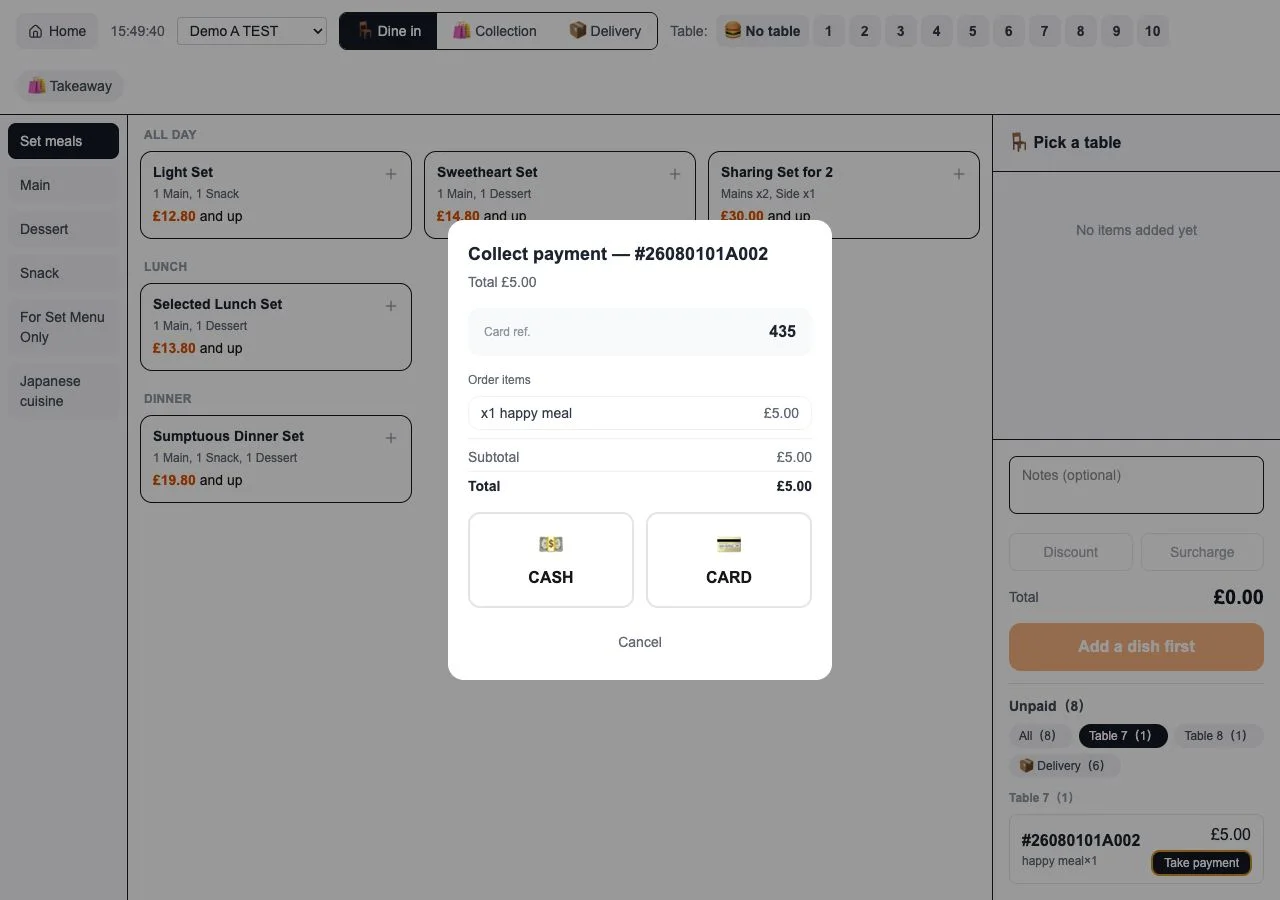
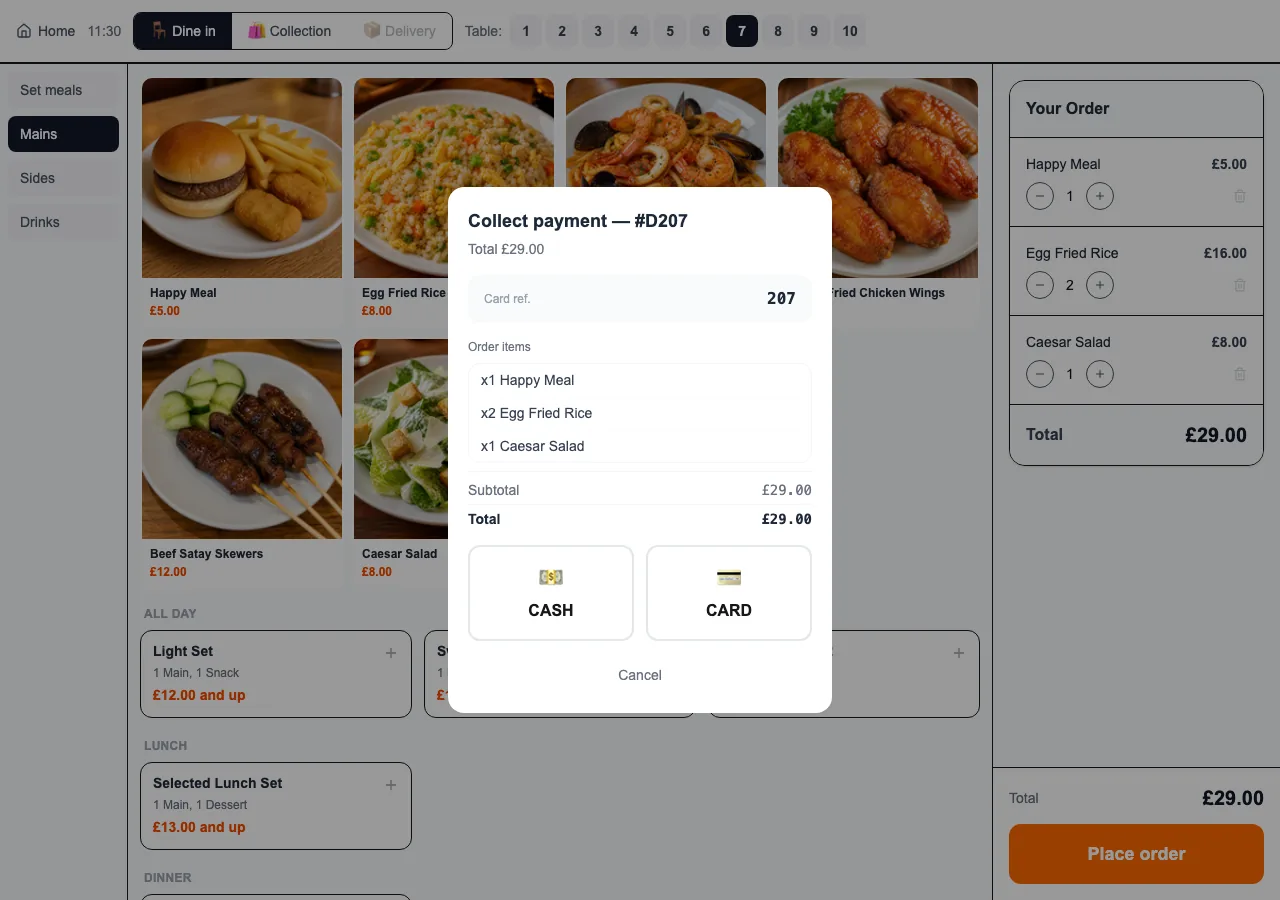
feat(landing): ship the regenerated workflow screenshots
The four "order to checkout" images are now produced by the POS screenshot
harness instead of being captured by hand from a live Demo restaurant, so the
three findings against them are fixed at the source rather than for one round:
no paid add-on control appears inside what the page presents as Core POS,
neither board is half empty, and no absolute date is burnt in.

- kitchen-order and floor-progress lose their 1045×735 exception. That size
  existed because those two were hand-shot and then cropped to hide a sidebar;
  the harness renders at a fixed viewport, so all eighteen are 1280×900.
- order-entry's contract changes. It used to be compared pixel by pixel against
  a retained pre-composite baseline, with only six rounded tiles allowed to
  differ — a guard built around a manual paste-the-photos-in step. That step no
  longer exists, and the baseline it needed is an artefact the harness never
  produces, so keeping the guard would mean rendering a second photo-less
  version purely to satisfy a test. The contract is now that the six tiles hold
  six distinct, genuinely photographic images; the stale baseline is deleted
  rather than left to look current. This is a real loosening and is written
  down as one: swapping order-entry.webp outside the harness no longer turns a
  test red, and the register's SHA plus its human review carry that weight now.
- The six food photographs are unchanged pixels, reused by the harness fixture
[…]

diff --git a/docs/superpowers/plans/2026-08-12-workflow-screenshots-reshoot-plan.md b/docs/superpowers/plans/2026-08-12-workflow-screenshots-reshoot-plan.md
@@ -1,0 +1,228 @@
+# 四張 workflow 截圖重新產生 —— 雙軌方案（2026-08-12）
+
+接住 [2026-08-12-pos-features-remaining-handoff.md](./2026-08-12-pos-features-remaining-handoff.md) 嘅 **A 線**（finding #1 F9／#2 F15／#3 F16）。
+B 線（`PosWorkflow` 收返入 image map）已完成，commit `b114003`。
+
+Claude 同 Codex 各自獨立寫一份（互相冇睇過對方），本檔由 Claude 組合。
+**未拍板，未開工。**
+
+---
+
+## 0. 事實基礎（兩份一致，Claude 已逐條核實）
+
+Landing 用嘅 18 張 demo 截圖分兩批來源：
+
+- **14 張** core／add-on 圖：POS repo `tools/screenshot-harness/` 自動產生（固定 fixture、唔連 Supabase、固定時鐘、Playwright 影 1280×900）
+- **4 張** workflow 圖（`order-entry`／`kitchen-order`／`floor-progress`／`checkout-report`）：**唔喺 harness 入面**，2026-08-01 人手喺真 Supabase 嘅 `Demo A TEST` 餐廳影
+
+呢四張就係 A 線要處理嗰四張。
+
+### 0.1 🔴 決定性發現（Codex 揪出，推翻 Claude 原方案前提）
+
+**「喺 Demo 餐廳熄加購模組」修唔到 F9。** 已核實：
+
+| 控制項 | 有冇 entitlement gate | 證據 |
+|---|---|---|
+| Staff 落單頁 `Delivery` 掣 | ❌ **固定 render**，只係 `!deliverySettings?.is_active` 令佢 disabled | [app/staff/page.tsx:676-682](/Users/hong/Claude/SHOPOPS/POS/app/staff/page.tsx#L676-L682)；全檔零個 `useHasModule` |
+| Kitchen `All／Dine-in／Takeaway／Delivery` filter | ❌ **固定 render**，hardcode array | [app/admin/page.tsx:461](/Users/hong/Claude/SHOPOPS/POS/app/admin/page.tsx#L461) |
+| Kitchen `Recipes` 掣 | ✅ `useHasModule('recipes')` | [app/admin/page.tsx:36](/Users/hong/Claude/SHOPOPS/POS/app/admin/page.tsx#L36)、[:477](/Users/hong/Claude/SHOPOPS/POS/app/admin/page.tsx#L477) |
+
+即係話：人手路熄模組**只可靠地移走 Recipes**，Delivery tab 照樣喺度。要修淨低嗰半，只剩「裁走／遮走」或者「改 production entitlement 行為」。
+
+### 0.2 🔴 第二個發現（Claude 原本講漏、Codex 講得更盡）
+
+**固定時鐘唔會令 F16 自動消失。** harness 而家釘死 `FIXED_TIME = '2026-08-06T10:30:00.000Z'`（[capture.mjs:17](/Users/hong/Claude/SHOPOPS/POS/tools/screenshot-harness/scripts/capture.mjs#L17)），照搬入 harness 只會由 `2026/08/01` 變 `2026/08/06`，一年後一樣舊。
+
+真正結構性修法：**scene 唔顯示絕對日期**（顯示 `Today`／相對時間），再加一條測試禁止 `20xx/xx/xx` 同 ISO 日期出現。
+
+### 0.3 🆕 Claude 核實時新發現（兩份都冇講）
+
+如果 scene 直接**唔 render** Delivery 掣，張 marketing 圖就會展示一個**真實客人見唔到嘅畫面**——因為按 0.1，一個 Core-only 客人**仍然會見到一個灰色 disabled 嘅 Delivery 掣**。
+
+咁樣 F9 由「過度銷售（展示咗收費功能）」變成「展示假 UI」，係另一種同樣唔想要嘅失實。**呢個要拍板**，見下面 D2。
+
+---
+
+## 1. 三條路
+
+### 路 A：再人手影一次（Claude 提出，Codex 詳述風險）
+
+去 `Demo A TEST` 熄模組、落 4–6 張虛構單、逐格影、裁圖。
+
+- **F9**：⚠ 只修到 Recipes（見 0.1），Delivery 要後製／裁走
+- **F15**：✅ 靠多落單填滿 —— 但下次 Demo 狀態唔同，會翻兜
+- **F16**：❌ 修唔到根，影嗰日就係嗰個日期
+- **風險**：真 Supabase 寫入（落單／改狀態／收款）；熄模組即時影響其他人用緊嘅 Demo 餐廳；realtime 令畫面截圖期間跳動；清理易漏；收款 modal 真確認會寫 `paid_at`
+- **下次成本**：每次 2–4 個鐘（撞到 Delivery tab 隱藏唔到／狀態撞單可升至半日）
+
+### 路 B：將四個完整 production page 搬入 harness（Claude 提出，兩邊都唔建議）
+
+逐頁依賴（Claude 量度 + Codex 逐條列）：
+
+| Scene | 頁面 | 規模 | 主要依賴 |
+|---|---|---|---|
+| `order-entry` | [app/staff/page.tsx](/Users/hong/Claude/SHOPOPS/POS/app/staff/page.tsx) | **1147 行、57 個 hook** | 8 條 `/api/*`、Supabase 6 張表（含 nested）、menu realtime、離線 menu cache、**IndexedDB 落單佇列／帳簿**、客顯 broadcast、CTI popup、held-payment recovery |
+| `checkout-report` | 同上 + 收款 modal | 繼承上面全部 | 再加預載 ledger／打開 `UnpaidList`／觸發 `OfflineCheckoutModal` |
+| `kitchen-order` | [app/admin/page.tsx](/Users/hong/Claude/SHOPOPS/POS/app/admin/page.tsx) | 610 行 | `orders` 七組 query（`eq/gte/lte/lt/not/is/in`）、nested `order_items`、`.channel().on().subscribe()`、`sessionStorage`、`localStorage`、10 秒輪詢 |
+| `floor-progress` | [app/admin/tables/page.tsx](/Users/hong/Claude/SHOPOPS/POS/app/admin/tables/page.tsx) | 917 行 | 多組 orders query、realtime、輪詢、打印狀態 channel、`/api/print-jobs/[id]`、courier verify |
+
+而 harness 個假 Supabase client 得 **74 行**，只撐 `select/order/eq/maybeSingle/single`，未知 table 直接 throw（[fixtures/supabase-client.ts:25](/Users/hong/Claude/SHOPOPS/POS/tools/screenshot-harness/fixtures/supabase-client.ts#L25)），亦**冇 `.channel()`**（一叫即 throw）。
+
+- **核心問題**（Codex 講得好準）：query stub 會愈加愈似自己寫一個半套 Supabase emulator。Production 一加 `.or()`／`.range()`／新 nested join，scene 就斷
+- **下次成本**：重跑 30–60 分鐘，但**日常 upkeep 貴**
+
+### 路 C：Harness presentation scenes（🏆 Codex 提出並建議）
+
+唔載入完整 production page，**用真 component 直接餵固定 props**，scene 負責砌成一個真實 workflow 畫面。呢個就係 harness 現有 14 個 scene 已經用緊嘅 pattern（例：`BilingualScene` 直接用真 `OrderCard` 加 fixture）。
+
+| Scene | 重用嘅真 component | 新增 | 工時（Codex 估） |
+|---|---|---|---|
+| `order-entry` | `OrderingLayout`／`MenuItemGrid`／`Cart` | `OrderEntryScene.tsx` + `fixtures/workflow.ts`；scene 自己出 Core-only header | 1–1.5 日 |
+| `checkout-report` | 真 `OfflineCheckoutModal` | 共用上面 fixture；建一個冇 `server_order_id` 嘅 ledger entry → 直接行 local fallback，唔掂 API | 半日 |
+| `kitchen-order` | 真 `OrderCard` | `KitchenOrderScene.tsx`；3 pending + 2 preparing；**唔傳 `onShowRecipe` → recipe icon 自動唔出**（[OrderCard.tsx:212](/Users/hong/Claude/SHOPOPS/POS/components/admin/OrderCard.tsx#L212)，已核實）；日期位顯示 `Today` | 半日–1 日 |
+| `floor-progress` | 要先抽 `TableProgressCard` | markup 而家 inline 喺 917 行 page 入面（[:775](/Users/hong/Claude/SHOPOPS/POS/app/admin/tables/page.tsx#L775)、[:517](/Users/hong/Claude/SHOPOPS/POS/app/admin/tables/page.tsx#L517)、[:599](/Users/hong/Claude/SHOPOPS/POS/app/admin/tables/page.tsx#L599)）→ **要動 production code** | 1–1.5 日 |
+
+**共用要改**：`fixtures/workflow.ts`（新）、四個 scene（新）、`components/SceneRenderer.tsx`、`scenes/manifest.mjs`（新增 `workflow` group，輸出 `workflow/*.webp`）、`scripts/capture.mjs`、`tests/manifest.test.mjs`、`tests/artifacts.test.mjs`、`tests/workflow-scenes.test.mjs`（新）、harness `docs/screenshot-register.md`、`components/admin/TableProgressCard.tsx`（新，production）、`app/admin/tables/page.tsx`（改用抽出嘅 component）、POS production regression test。
+
+**Codex 點名嘅五個撞板位**：
+1. `TableProgressCard` extraction **只准搬 markup／props／callbacks**，唔准順手重構行為
+2. Staff header 而家唔係獨立 component，scene 手砌會有 drift 風險 → scene test 要核對必要 label
+3. Checkout modal 初 render 會由 loading 轉 offline fallback → ready selector 要等 `CASH`／`CARD` 出現先截圖
+4. 現有 capture 用自訂 `Date` override，長遠建議轉 Playwright 官方 `page.clock.setFixedTime()`
+5. `FixtureProviders` 而家對**所有** scene 開齊全部模組（[FixtureProviders.tsx:8](/Users/hong/Claude/SHOPOPS/POS/tools/screenshot-harness/components/FixtureProviders.tsx#L8) `FIXTURE_MODULES = [...MODULE_KEYS]`，已核實）→ **唔可以全域改走**，否則整壞 14 張 add-on scene；workflow scene 要有自己嘅 Core-only provider
+
+**下次成本**：15–30 分鐘（跑 capture → 自動驗 → 人眼 gate → copy 入 Landing → 更新 register → 跑 verify）
+
+---
+
+## 2. 兩份方案嘅一致位同分歧位
+
+### ✅ 一致
+
+1. 純人手路（路 A）唔應該再揀
+2. 完整 fixture 化四個 production page（路 B）成本／風險唔成正比
+3. F15 應該**加數據唔好裁圖**，四張統一 1280×900（Codex 額外指出：Landing 而家 kitchen／floor 係 1045×735 特例，[pos-demo-assets.test.mjs:44-47](/Users/hong/Claude/SHOPOPS/Landing/tests/pos-demo-assets.test.mjs#L44-L47)，統一返會簡化 layout）
+4. 呢個決定**唔算難回頭**（四張 WebP 隨時換得；harness 係 local-only；冇 DB schema／對外 API 鎖死）
+5. 守則 #11 嘅判斷：唔應該用「長遠」去支持路 B；但「唔好揀之後不停返工嘅易路」對路 A **fire**
+6. Landing 側收尾兩條路都要做（見第 4 節）
+
+### ⚔ 分歧
+
+| | Claude | Codex | 拍板後果 |
+|---|---|---|---|
+| **建議** | 混合路：`kitchen-order` + `floor-progress` 搬入 harness，`order-entry` + `checkout-report` 維持人手 | 路 C：四張一次過搬，用 presentation scene | Claude 版少做約一半，但保留兩套 provenance |
+| **F9 修得到未** | 假設「熄模組」搞掂 → **已證實錯**（0.1） | 由 scene 控制 render 咩 → 修到 | Codex 勝 |
+| **`floor-progress` 最抵搬？** | 排第二抵（有日期 + 有空白） | 排**最貴**（UI inline 喺 917 行 page，要先抽 production component） | Codex 講得對，Claude 冇睇到 markup 係 inline |
+| **分唔分期** | 分（2 搬 2 留） | 唔建議分（四張今次都要重影，分期反而同時維持兩套 provenance）；但如果要分，次序係 kitchen-order → checkout-report → order-entry → floor-progress | 見 D1 |
+
+**Claude 認低嘅位**：我原本嘅混合路建基於兩個錯判——(a) 以為熄模組修到 F9；(b) 以為 `floor-progress` 易搬。兩個都經核實推翻。Codex 嗰份喺呢兩點上準過我。
+
+---
+
+## 3. HONG 已拍板（2026-08-12）
+
+| | 決定 | 影響 |
+|---|---|---|
+| **D1** | **路 C，四張全做** | 唔分期。約 3.5–4.5 日，工作主要喺 POS repo |
+| **D2** | **a：scene render 灰色 disabled 嘅 Delivery** | 同 Core-only 真客人所見一致；唔改 production entitlement 行為；`Recipes` 就真係唔出（唔傳 `onShowRecipe`） |
+| **D3** | 加數據，唔裁圖，四張統一 1280×900 | Landing `expectedDimensions` 要拆走 kitchen／floor 嘅 1045×735 特例 |
+| **D5** | **收貨**：准為 `floor-progress` 抽 `TableProgressCard` | 只准搬 markup／props／callbacks，唔准順手重構行為，要有 production regression test |
+| **E1** | **a：四張維持全螢幕真 app 外觀** | Workflow scene **唔用**現有 marketing `FixtureShell`（橙色 eyebrow／大標題／`Fictional demo data` badge）；要喺 scene 砌返 app chrome，並用 scene test 釘住必要 label 防 drift |
+| **E2** | **c：兩道新閘（下半空白上限、唔准絕對日期）寫成全 18 張適用，現有違規者列白名單** | 唔擴大今次 scope；白名單本身就係一張可見嘅舊債清單，之後另開一案清 |
+| **D4** | ⏳ **未拍板** | 見下面。只阻住 `order-entry`，唔阻住頭兩個 scene |
+
+### ⏳ D4 —— `order-entry` 嘅逐 pixel baseline 測試點算
+
+Landing 現有測試只准 6 個食物相圓角格嘅 pixel 同 baseline 唔同，其餘每一粒都要一樣
+（[pos-demo-assets.test.mjs:184](/Users/hong/Claude/SHOPOPS/Landing/tests/pos-demo-assets.test.mjs#L184)）。重影之後必定失效。
+
+- **D4-a**：保留現流程，更新 `tests/fixtures/pos-demo-order-entry-baseline.webp` 同 tile 座標
+- **D4-b**：harness fixture 直接用已批准嘅 6 張食物相，測試改成「6 格存在／非空／各自 hash 唔同／零第三方 request」
+
+⚠ D4-b 等於放寬現有保護契約，Codex 自己都話實作前要獨立 review。
+
+---
+
+## 3b. 原始拍板選項（保留備查）
+
+### D1 — 揀邊條路？
+
+- **C（Codex 建議）**：四張一次過用 presentation scene 搬入 harness。約 3.5–4.5 日
+- **C 分期（Codex 次選）**：先 `kitchen-order` + `checkout-report`（約 1–1.5 日，收益最大），其餘之後做
+- **A（唔建議）**：人手再影，但 F9 修唔全、F16 修唔到根
+
+### D2 — 🔴 F9 到底點修？（0.3 帶出，兩份原方案都冇答）
+
+一個 Core-only 客人**真係會見到**灰色 Delivery 掣。所以：
+
+- **D2-a**：scene render **灰色 disabled** 嘅 Delivery／Takeaway → 誠實（同真客人所見一致），而且灰色本身已經唔似「已包含嘅功能」
+- **D2-b**：scene **完全唔 render** Delivery → 畫面最乾淨，但展示緊冇人見過嘅 UI
+- **D2-c**：改 POS production，令呢啲控制真係受 entitlement gate 管 → 最徹底，但係**產品決定**，影響真客人，唔應該由 marketing 截圖推動
+
+Claude 傾向 **D2-a**。
+
+### D3 — F15 加數據定裁圖？
+
+兩份一致建議**加數據 + 統一 1280×900**。如果冇異議可以直接照做，唔使特別拍板。
+
+### D4 — `order-entry` 嘅 pixel baseline 點算？
+
+Landing 有一條好辣嘅測試：只准 6 個食物相圓角格嘅 pixel 唔同，其餘每一粒都要同 baseline 一樣（[pos-demo-assets.test.mjs:184](/Users/hong/Claude/SHOPOPS/Landing/tests/pos-demo-assets.test.mjs#L184)，已核實）。重影之後一定失效。
+
+- **D4-a**：保留現流程，更新 `tests/fixtures/pos-demo-order-entry-baseline.webp` 同 tile 座標
+- **D4-b**（Codex 較推薦）：harness fixture 本身直接用已批准嘅 6 張食物相，Landing 測試改成「6 格存在／非空／各自 hash 唔同／零第三方 request」，ownership 交返人眼 licence gate
+
+⚠ Codex 自己都標明 D4-b **等於放寬現有保護契約，實作前要獨立 review，唔可以靜靜鬆**。
+
+### D5 — 為咗截圖去抽 production component（`TableProgressCard`）你收唔收貨？
+
+路 C 嘅 `floor-progress` 要動 [app/admin/tables/page.tsx](/Users/hong/Claude/SHOPOPS/POS/app/admin/tables/page.tsx) 抽一個純展示 component 出嚟。係可回退嘅 presentation refactor，但佢係**由 marketing 需求驅動嘅 production 改動**。唔收貨嘅話，`floor-progress` 就要留返人手，或者 scene 自己複製一份會 drift 嘅假 markup（唔建議）。
+
+---
+
+## 3c. 開工後量度到嘅新事實（2026-08-12，Claude）
+
+量度全部 18 張「下半 45% 近白像素」比例（同 handoff 同一方法），發現 **F15 同 F16 都唔限於嗰四張人手圖**：
+
+| 資產 | 下半近白 | 備註 |
+|---|---:|---|
+| `core/bilingual` | 99% | 已上線；**肉眼核實真係空一半** |
+| `add-ons/scheduling` | 99% | 已上線；**肉眼核實空一半，兼且顯示絕對日期 `08-03`…`08-16`（＝F16）** |
+| `add-ons/food_safety`／`add-ons/custom_domain` | 99% | |
+| `floor-progress` | 98% | F15 flag 咗 |
+| `add-ons/reservations` | 98% | |
+| `kitchen-order` | 97% | F15 flag 咗 |
+| `add-ons/reviews`／`add-ons/delivery` | 95% | |
+| `order-entry` | 84% | ⚠ 但肉眼睇係滿嘅 —— 見下面警告 |
+| `checkout-report` | 13% | |
+| `core/offline_backup` | 6% | |
+
+⚠ **呢個數字係 proxy 唔係真相**：白底 UI 都會計入「近白」，所以 `order-entry` 84% 但實際好滿。
+單靠數字唔可以判違規，一定要配肉眼。定閘門檻嗰陣要記住呢點。
+
+**結論**：F15 係 harness 個框（固定 `min-h-[836px]` 卡 + 內容唔夠高）造成，唔係人手影圖獨有；
+F16 亦已經出現喺 harness 產物。所以兩道閘擺喺 harness 層先啱（＝E2-c）。
+
+---
+
+## 4. Landing 側收尾（揀邊條路都要做，7 項）
+
+1. 換四個 `public/pos-demo/*.webp`
+2. 更新 [docs/pos-demo-screenshot-register.md](/Users/hong/Claude/SHOPOPS/Landing/docs/pos-demo-screenshot-register.md)：capture 日期／provenance／fixture 狀態／dimensions／bytes／SHA-256／network request／F9-F15-F16 審核結果／**商標同 licence 兩欄人手重新 tick**
+3. 更新 [tests/pos-demo-assets.test.mjs](/Users/hong/Claude/SHOPOPS/Landing/tests/pos-demo-assets.test.mjs)：kitchen／floor 改 1280×900；新增 workflow 內容閘（唔准出 `Recipes`／`Delivery` 字樣、最低 card 數、唔准有絕對日期 pattern、下半近白像素上限）
+4. 處理 `order-entry` baseline（見 D4）
+5. 真 render 驗三個使用位置：首頁、`/pos`、`/pos/features`
+6. 跑 Landing `npm run verify`
+7. 原尺寸逐張人眼 gate：英文／無 PII／無真商業資料／無第三方商標／食物相 licence／文字可讀／F9-F15-F16 清零
+
+---
+
+## 對帳
+
+來源：Codex 方案 13 個 block + Claude 方案 6 個 block + Claude 核實新增 2 條 = **21 條入**。
+
+本檔覆蓋：C1→§0.1、C2→§0.2、C3→§1 路 A、C4→§1 路 B、C5→§1 路 C 表、C6→§1 路 C 共用要改、C7→§1 五個撞板位、C8→§2 分歧表 + D1、C9→§2 一致位 3 + D3、C10→D4、C11→§4、C12→§2 一致位 4-5、C13→§2 分歧表；
+K1→§0、K2→§2 分歧表（已被推翻）、K3→§1 各路 findings、K4→§1 路 B 表、K5→§2 分歧表、K6→§0.2 + §2 一致位 5；
+N1→§0.1/§0.2 證據欄、N2→§0.3 + D2。
+
+**21 入 = 21 出，零 gap。**

diff --git a/docs/pos-demo-screenshot-register.md b/docs/pos-demo-screenshot-register.md
@@ -1,8 +1,17 @@
 # ShopOps POS Website Screenshot Register — 2026-08-06
 
 - Scope: 18 English demo-interface WebP assets used by the POS feature page.
-- Existing workflow assets: manually re-opened at original size on 2026-08-06 (BST); English demo UI, no visible PII or commercial data, and readable at source size.
-- `order-entry.webp` now uses six original generated food photographs for Happy Meal, Egg Fried Rice, Seafood Spaghetti, Crispy Fried Chicken Wings, Beef Satay Skewers and Caesar Salad; the surrounding product UI remains unchanged.
+- **Workflow assets (2026-08-13, regenerated):** the four `order-entry` / `kitchen-order` / `floor-progress` /
+  `checkout-report` assets are no longer hand-captured from a live Demo restaurant. They now come from the POS
+  screenshot harness (`tools/screenshot-harness`, `workflow` scene group) with fixed fictional fixtures, a fixed
+  clock and no Supabase connection, so they can be regenerated with one command. The harness renders the real POS
+  components; only Core POS (`ordering`) is enabled, which is why no paid add-on entry point appears.
+  ⚠ **Their three review columns below read `PENDING`: the assets changed and the manual review has not been
+  redone yet.** `tests/pos-demo-assets.test.mjs` fails until a reviewer opens all four at original size and ticks them.
+- `order-entry.webp` shows the same six original generated food photographs (Happy Meal, Egg Fried Rice, Seafood
+  Spaghetti, Crispy Fried Chicken Wings, Beef Satay Skewers, Caesar Salad). They were not regenerated: the harness
+  fixture reuses the exact pixels, lifted from the previously approved `order-entry.webp` at the coordinates its
+  tile test records, so the trademark and licence review that cleared them still applies to what ships today.
 - New Core/add-on assets: copied unchanged from the isolated POS screenshot harness handoff. Its 2026-08-06 review opened all 14 files at original size and approved English UI, fictional data, PII/commercial-data safety and readability. `bilingual` intentionally shows fictional Chinese dish names in a labelled translation preview.
 - Hashes and byte counts below are recalculated from the Landing copies, not copied from prose.
 - The last two columns are a **manual approval gate**, not automated detection. A reviewer opens each asset at original size and ticks it only after confirming, with their own eyes, that (a) no third-party logo, wordmark or other trademark is visible and (b) every pixel is ShopOps-owned product UI or ShopOps-generated imagery that we are licensed to publish. `tests/pos-demo-assets.test.mjs` can only check that all 18 rows are ticked — it cannot recognise a trademark. Re-tick the row whenever an asset is recaptured, and note the reason below if a gate is ever set to anything other than `PASS`.
@@ -10,10 +19,10 @@
 
 | Asset | Stable ID | Public path | Language | Dimensions | Bytes | SHA-256 | English / PII / commercial data / readability | No third-party logo or trademark | Asset licence and ownership confirmed |
 |---|---|---|---|---:|---:|---|---|---|---|
[11 lines of base64/hex data omitted]
@@ -32,6 +41,16 @@
 Reconciliation: 18 approved feature items = 18 stable IDs = 18 unique WebP files = 18 map entries = 18 register rows. Zero missing, extra or duplicate path.
 
 4 source stages = 4 English assets, zero gap.
+
+## Workflow asset provenance
+
+Regenerated 2026-08-13 by `npm run capture` in `POS/tools/screenshot-harness`. Fixed viewport 1280×900,
+`en-GB`, `Europe/London`, clock pinned to 2026-08-06 11:30 BST, local-only `127.0.0.1:3419`, external requests
+blocked. All four render one fictional order at table 7 so the journey reads as a single story. Capture refuses
+any scene whose rendered text contains an absolute date, which is why no date picker value appears.
+
+<details>
+<summary>Superseded: the 2026-08-01 hand-capture provenance</summary>
 
 ## Existing four-stage workflow provenance
 
@@ -81,3 +100,5 @@ confirmed `Not open` afterwards.
   visible.
 - Screenshots contain product UI only. Browser chrome, password-manager prompts,
   notifications, bookmarks and unrelated tabs are absent.
+
+</details>
